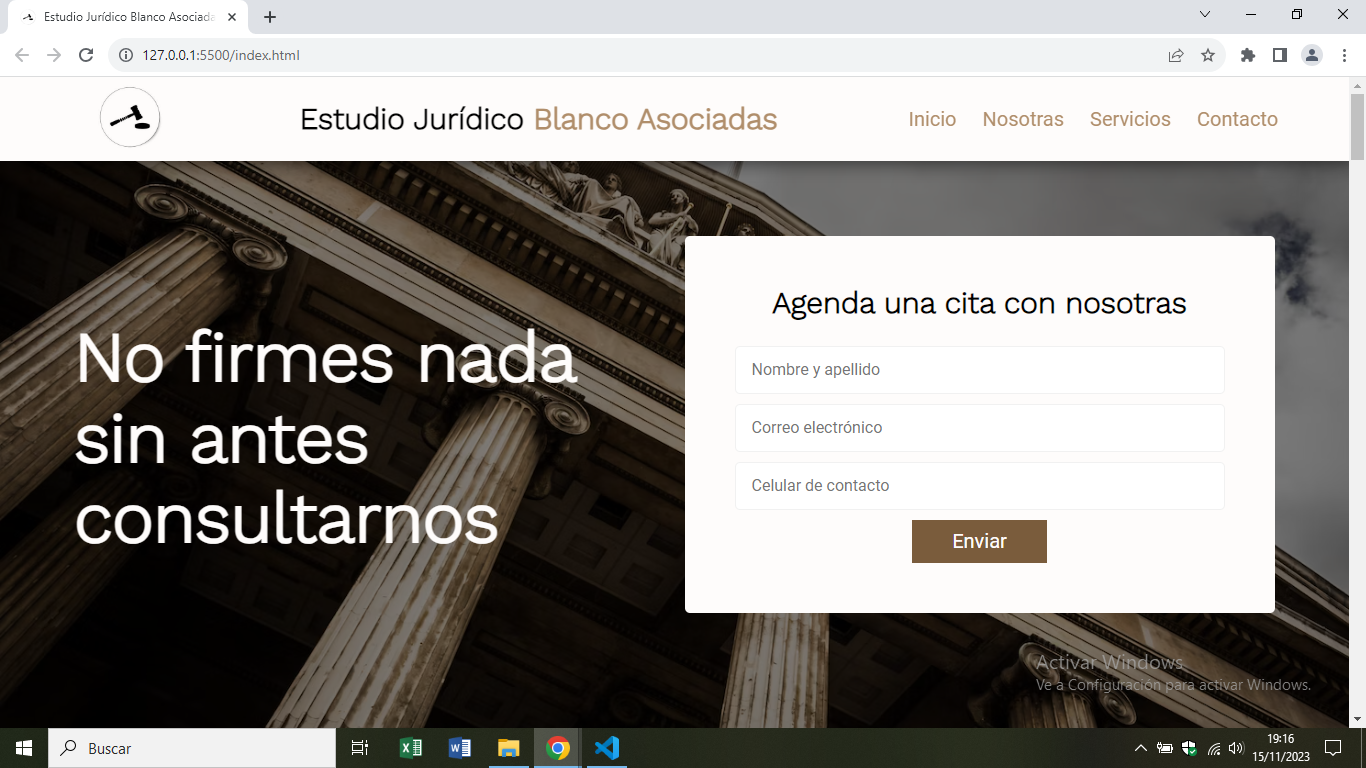
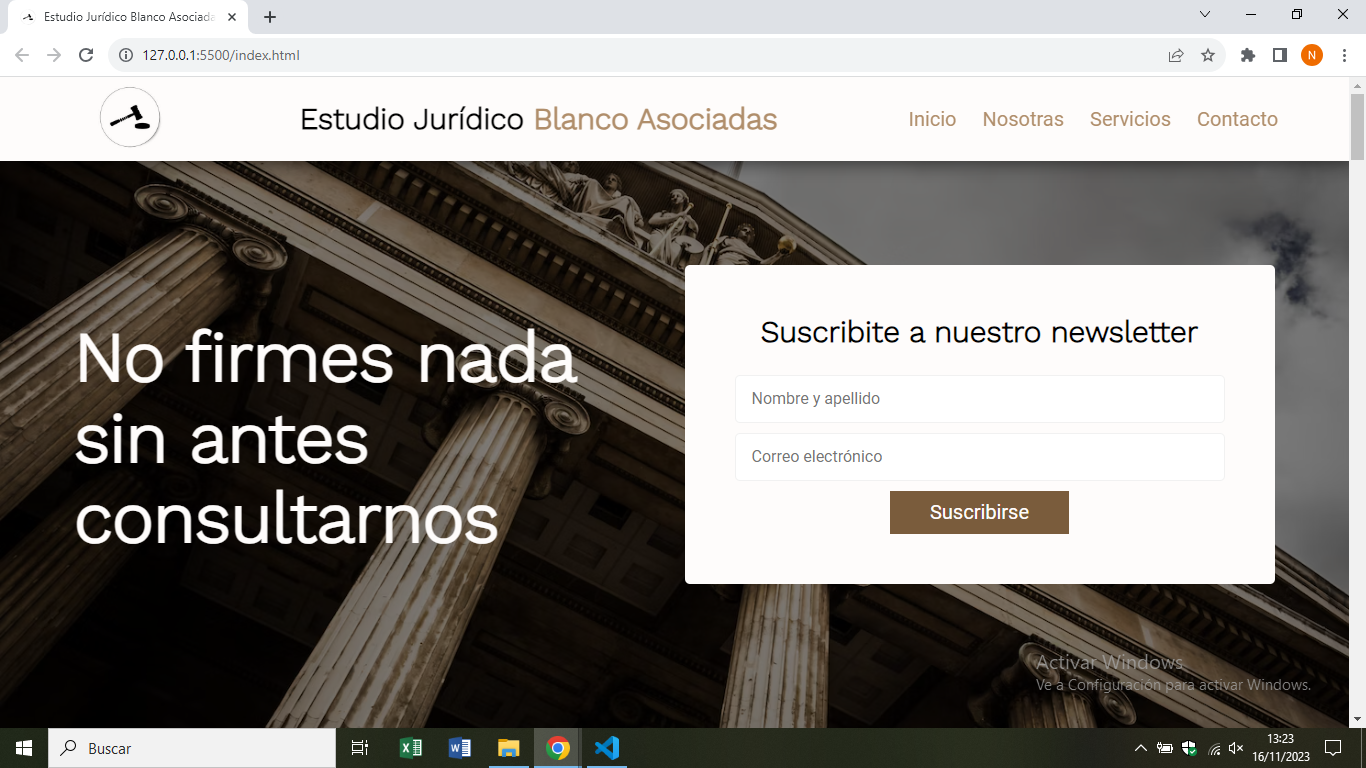
Cambio del selector por id

diff --git a/index.html b/index.html
@@ -45,18 +45,15 @@
             </div>
             <!-- PPIO FORM -->
             <form class="formulario-encabezado">
-                <h2>Agenda una cita con nosotras</h2>
+                <h2>Suscribite a nuestro newsletter</h2>
                 <div class="input-encabezado">
                     <input type="text" placeholder="Nombre y apellido">
                 </div>
                 <div class="input-encabezado">
-                    <input type="text" placeholder="Correo electrónico">
-                </div>
-                <div class="input-encabezado">
-                    <input type="text" placeholder="Celular de contacto">
+                    <input type="email" placeholder="Correo electrónico">
                 </div>
                 <div class="boton-encabezado">
-                    <input class="btnmarron" type="submit" value="Enviar">
+                    <input class="btnmarron" type="submit" value="Suscribirse">
                 </div>
             </form>
             <!-- FIN FORM -->
@@ -201,7 +198,7 @@
         <h2>Contacto</h2>
         <div class="contenido-contacto">
             <div class="informacion-contacto">
-                <h3>Información de contacto</h3>
+                <h3 id="informaciondecontacto">Información de contacto</h3>
                 <p>blancoabogadas@asesorialegal.com.ar</p>
                 <p>11-0000-1234</p>
                 <p>Av. Leandro N. Alem 1111, 15°B, C.A.B.A.</p>
@@ -216,7 +213,7 @@
                 </div>
                 <div class="input-contacto">
                     <label for="correoelectronico">Correo electrónico</label>
-                    <input type="text" id="correoelectronico" placeholder="example@example.com">
+                    <input type="email" id="correoelectronico" placeholder="example@example.com">
                 </div>
                 <div class="input-contacto">
                     <label for="celulardecontacto">Celular de contacto</label>

diff --git a/css/style.css b/css/style.css
@@ -472,7 +472,7 @@ p, a{
 
 /*SECCION CONTACTO*/
 
-#contacto{
+.contacto{
     padding-top: 5rem;
 }
 .contacto h2{
@@ -522,6 +522,9 @@ p, a{
 .informacion-contacto h3, .informacion-contacto p{
     color: var(--oscuro);
 }
+#informaciondecontacto {
+    text-decoration: underline;
+  }
 .formulario-contacto{
     padding: 5rem;
     display: flex;
